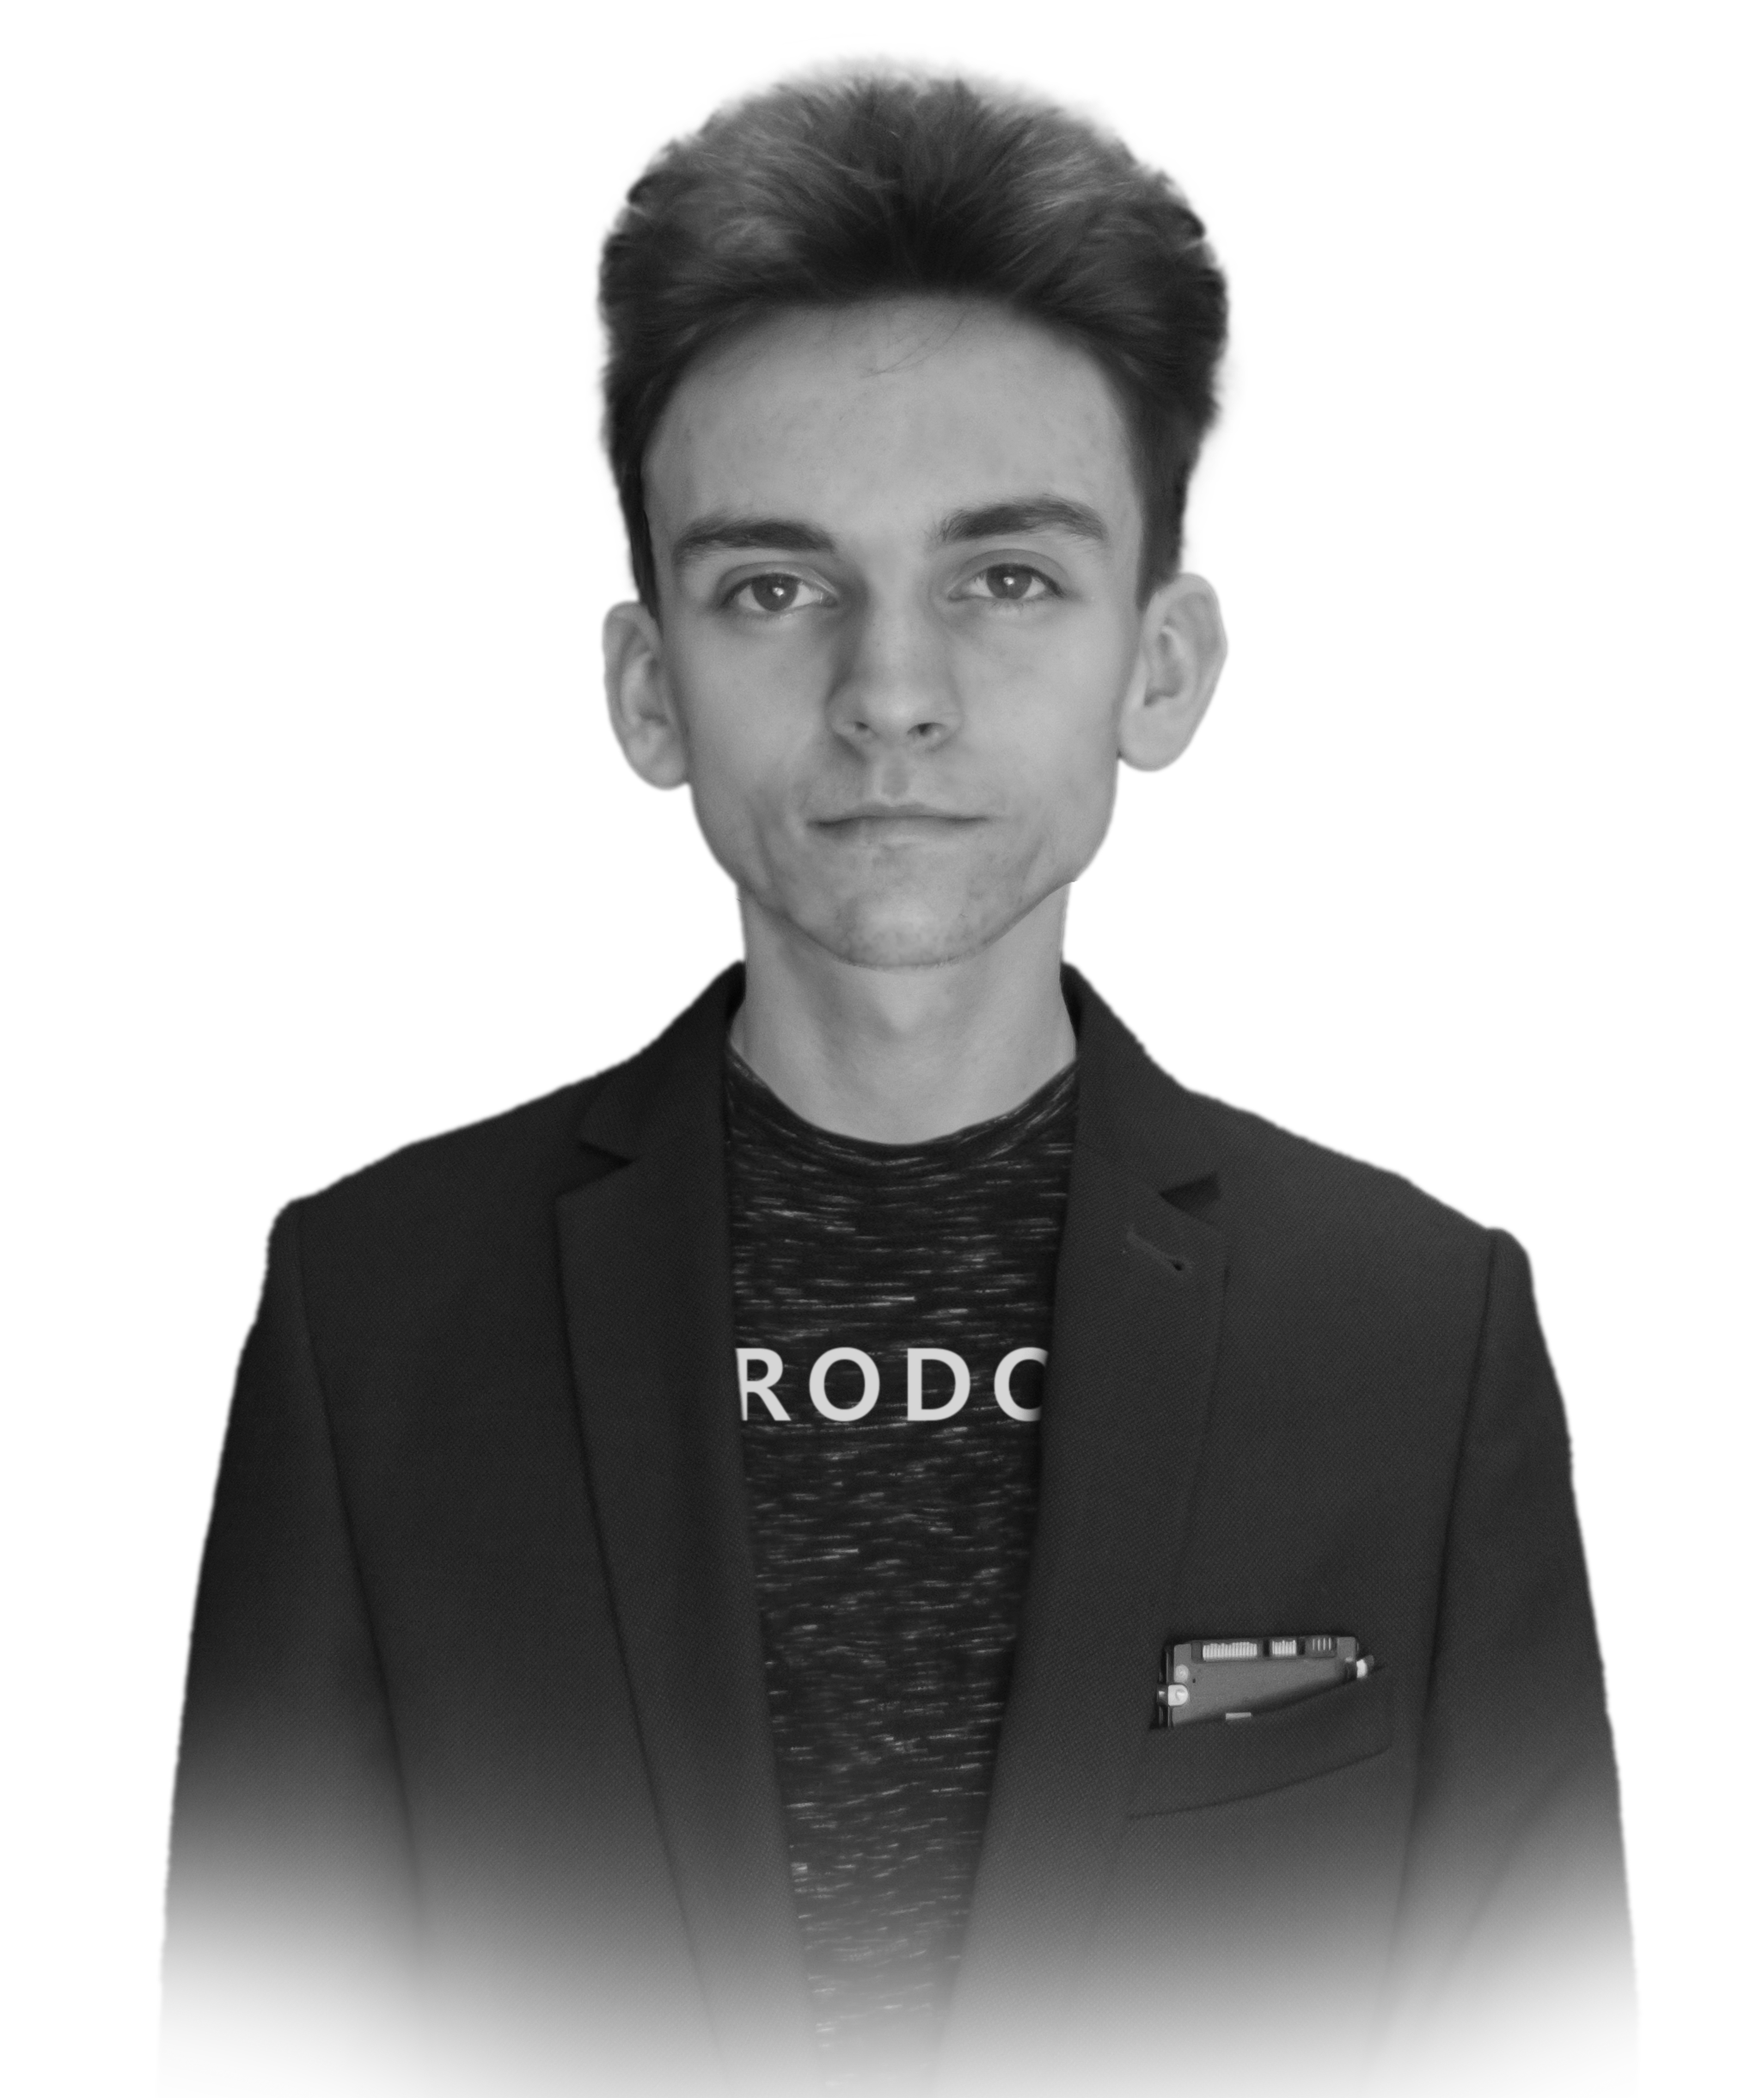
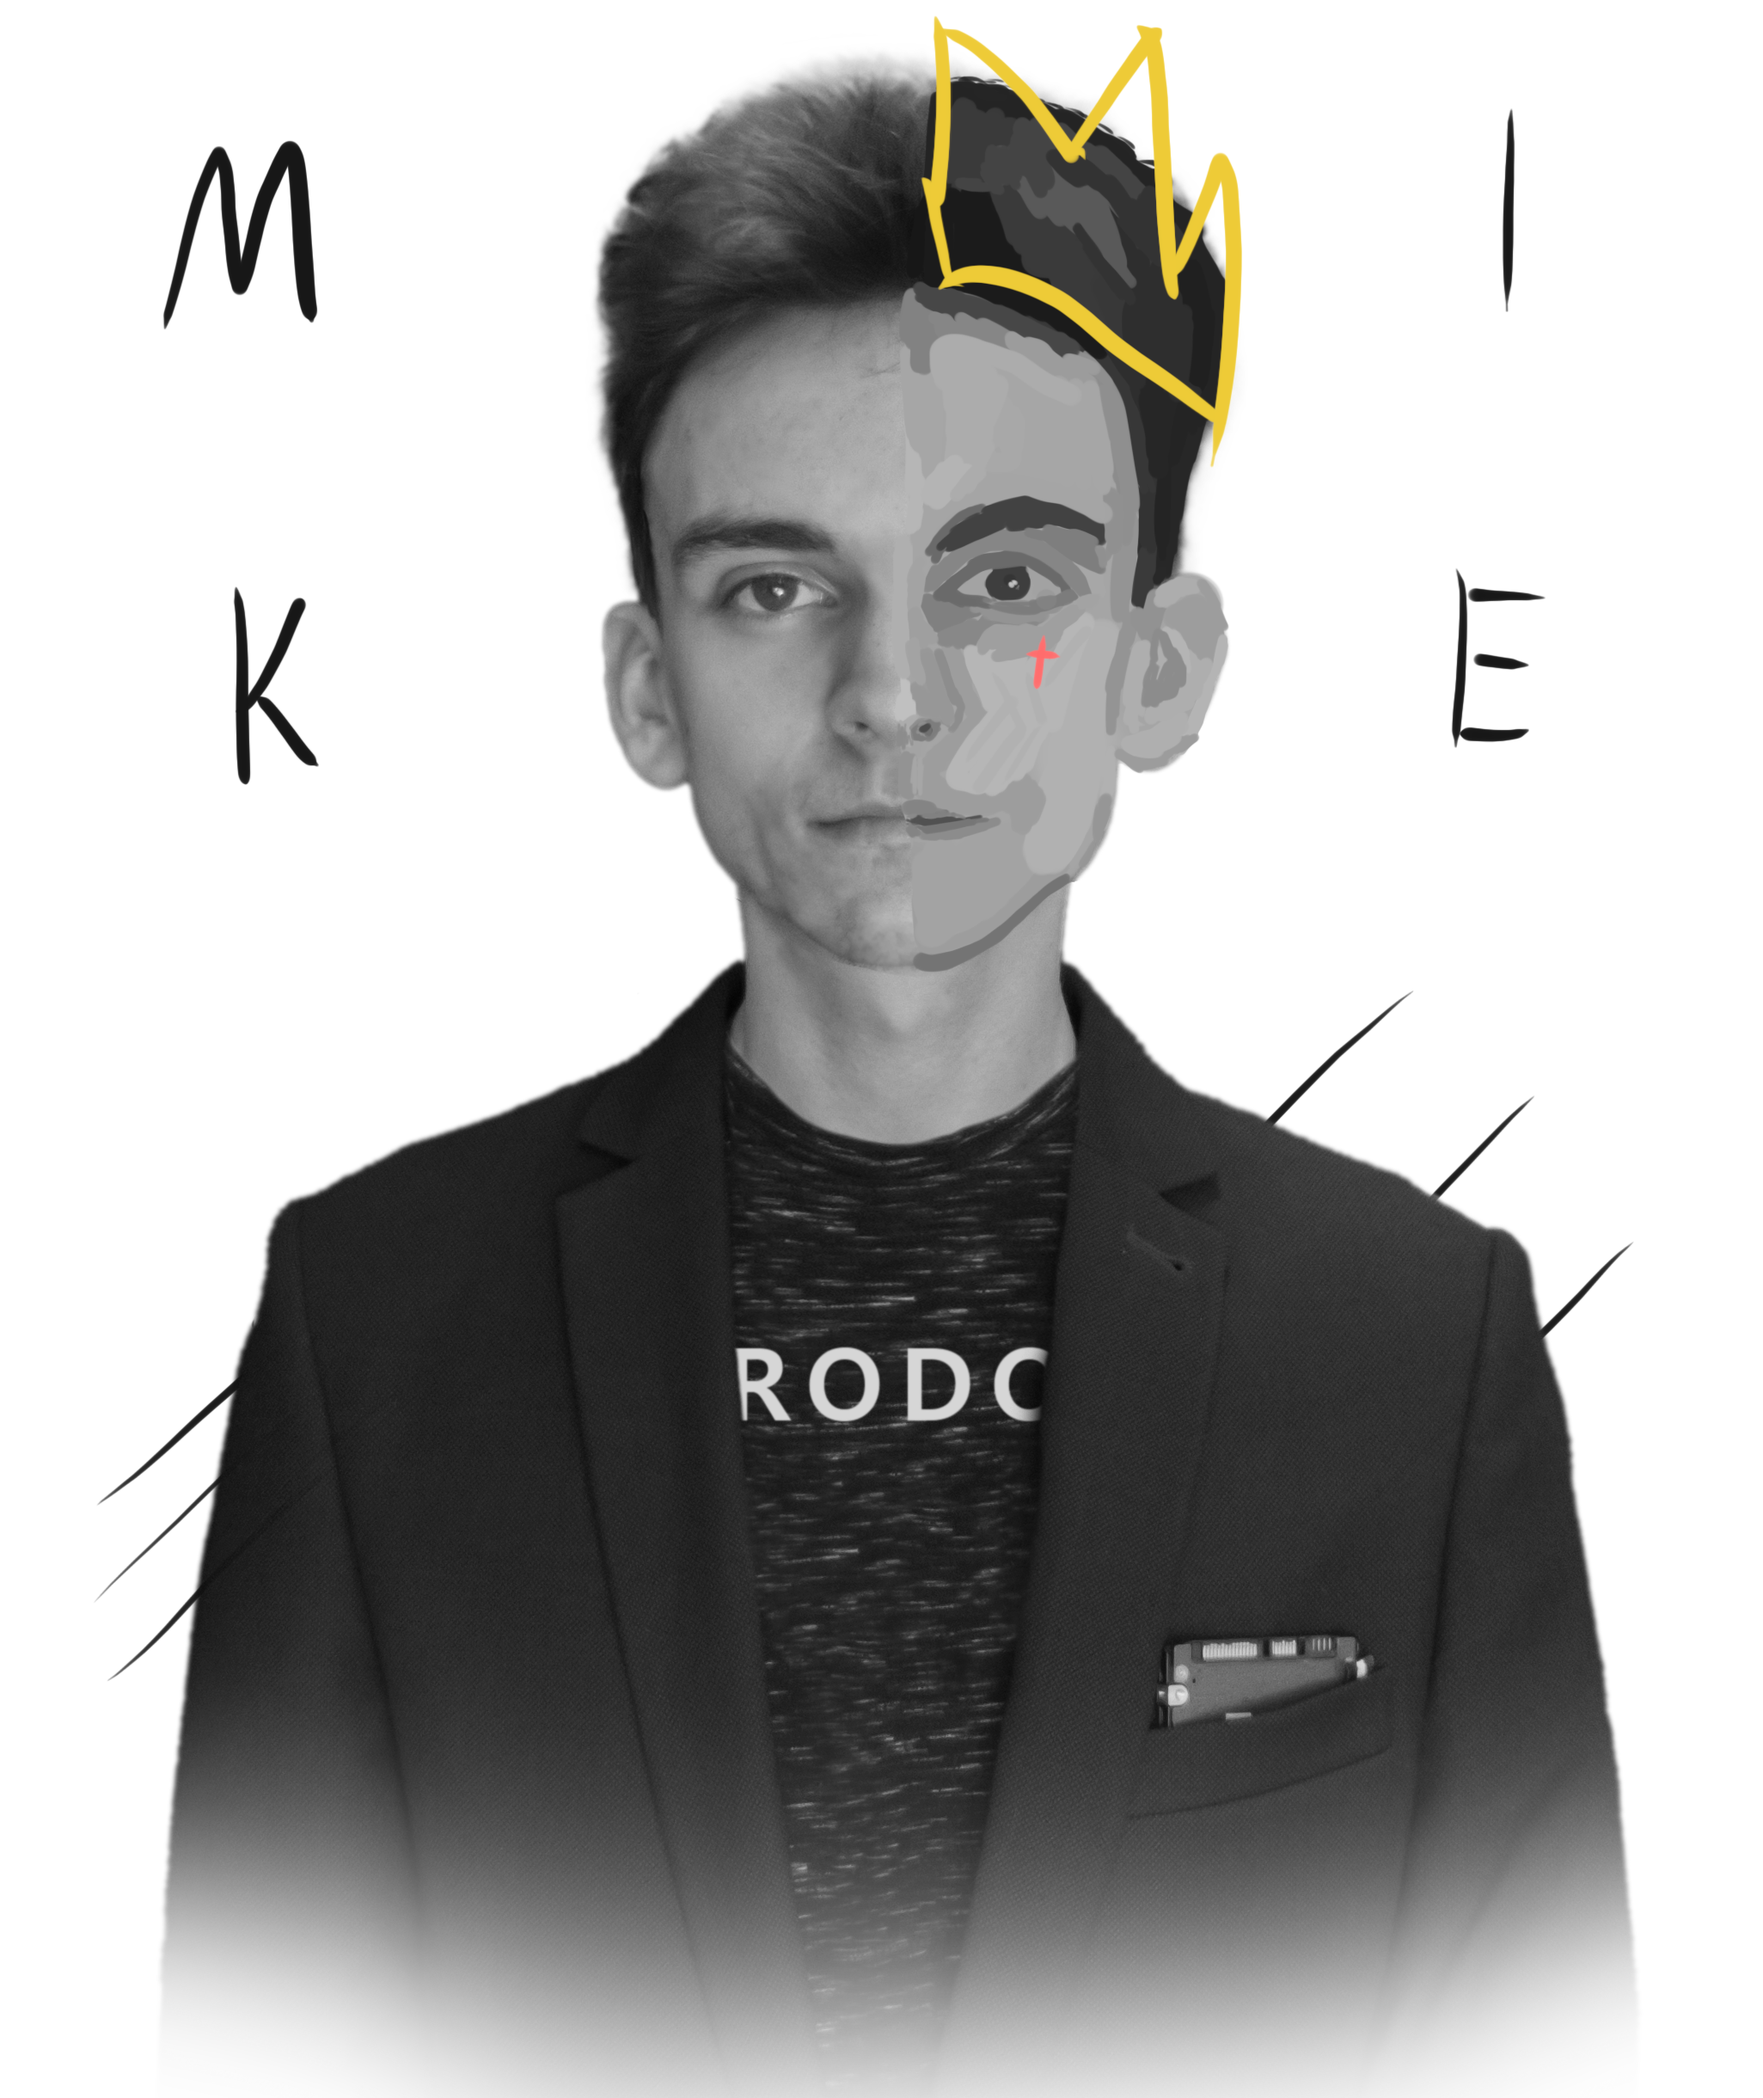
drawe my face

diff --git a/src/Intro/Intro.tsx b/src/Intro/Intro.tsx
@@ -48,8 +48,8 @@ const Intro = () => {
 
   return (
     <>
-     <div className="i-logo-absolute">
-        <div className="i-logo">M I K K E</div>
+      <div className="i-logo-absolute">
+        <div className="i-logo">M I K E</div>
       </div>
       <div className="i-top">
         <div className="i-container">

diff --git a/src/Intro/scss/left.scss b/src/Intro/scss/left.scss
@@ -79,7 +79,7 @@
   text-align: center;
   color: rgb(219, 219, 219);
   z-index: 1;
-  text-shadow: 0 0 50px rgb(211, 210, 210);
+  text-shadow: 0 0 50px rgb(207, 207, 207);
 }
 
 .pnk {
